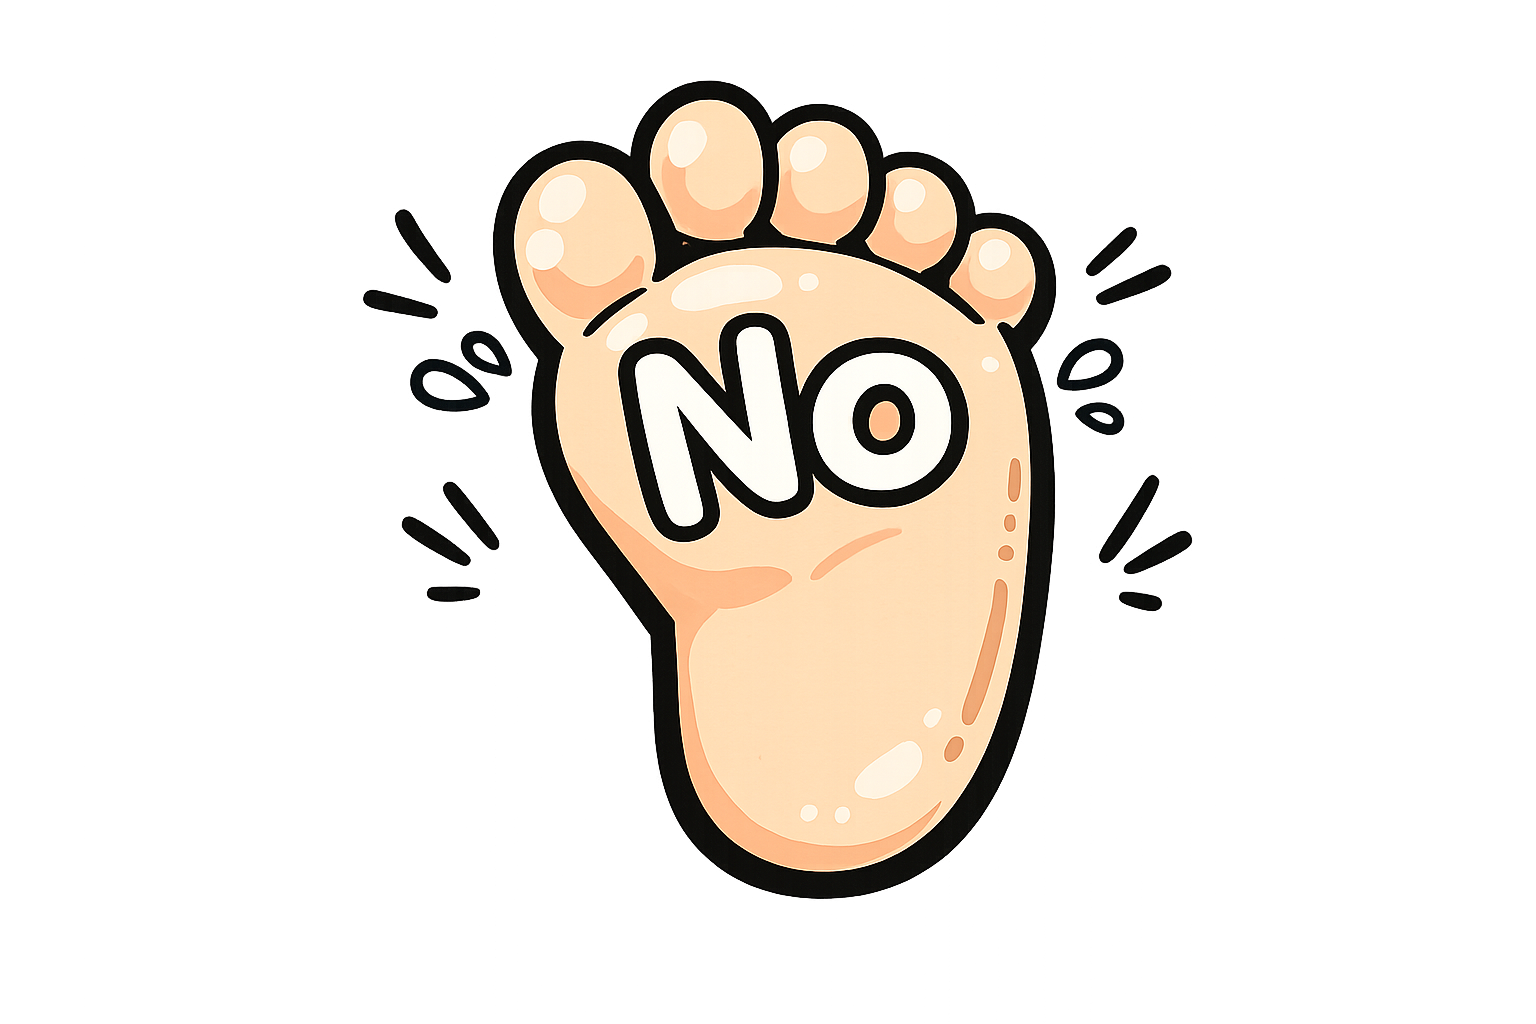
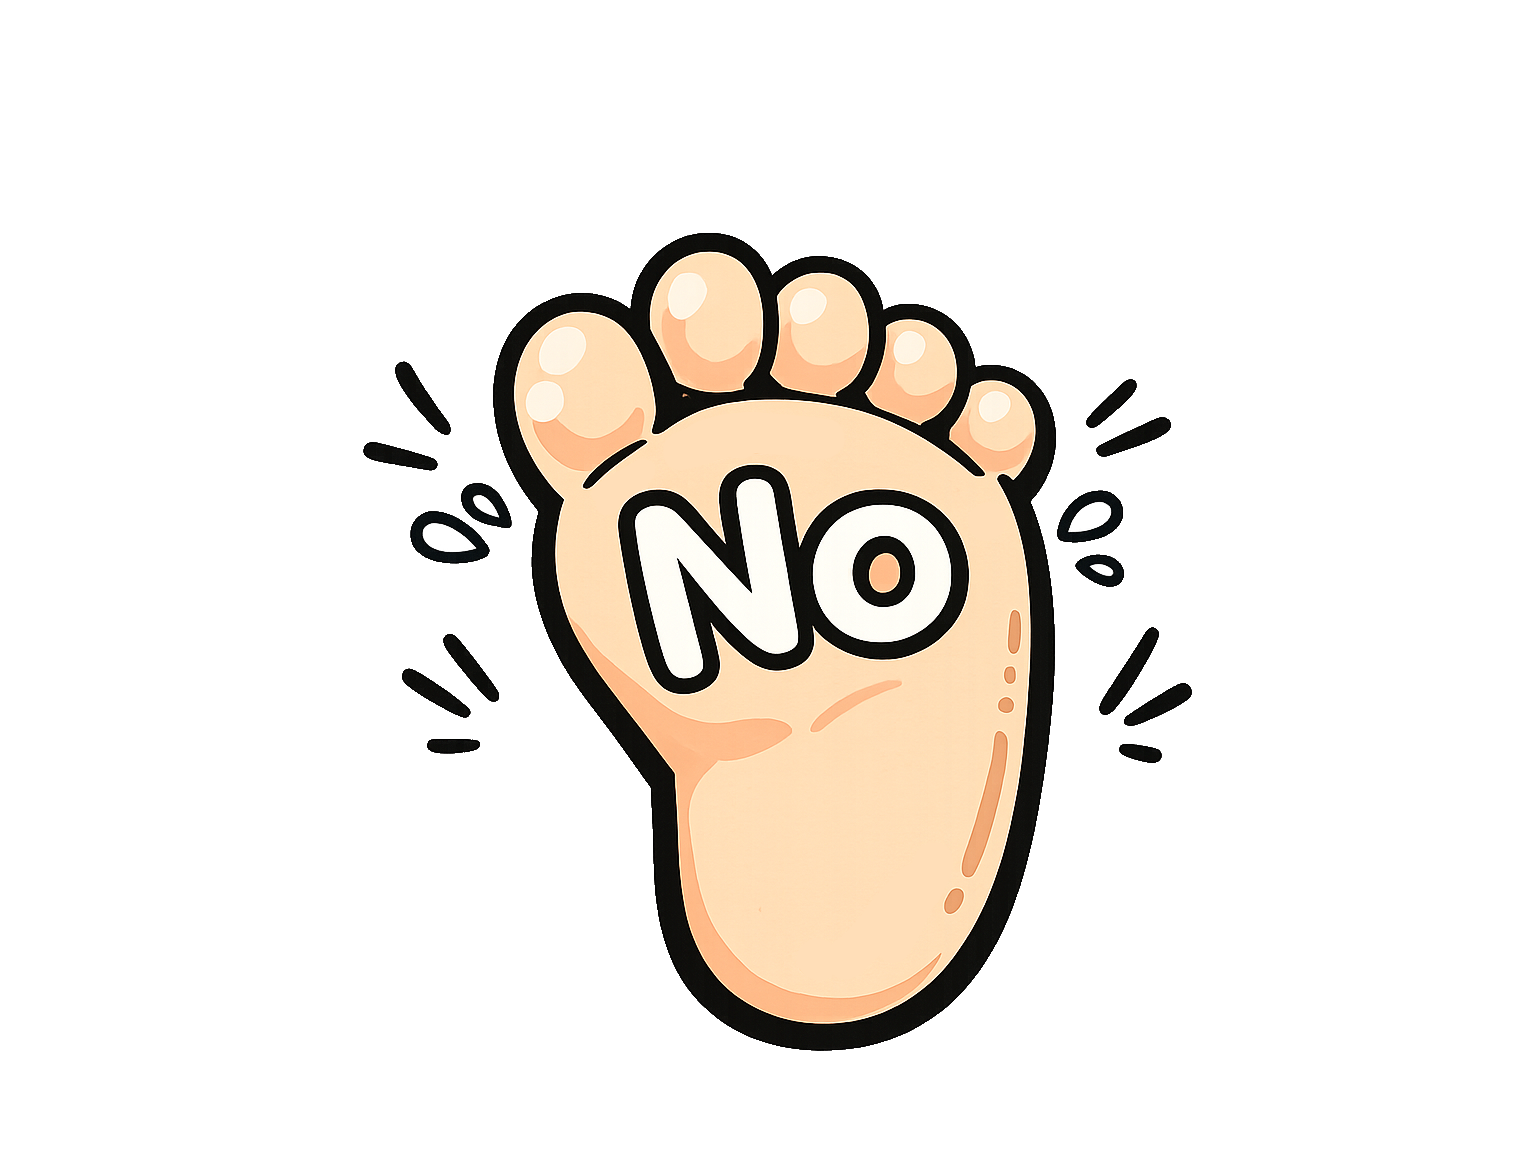
add images to all questions

Changed region(s): [[0.2188, 0.0625, 0.7812, 0.9062], [0.25, 0.1875, 0.2812, 0.25]]

diff --git a/index.html b/index.html
@@ -16,7 +16,8 @@
         <!-- Question 1 -->
         <div id="q1" class="question">
             <div class="img-container">
-                <img class="main-img" src="img/heart-eyes.png" alt="Jess with heart eyes">
+                <img class="main-img-anim img-anim-top" src="img/heart-eyes.png" alt="Jess with heart eyes">
+                <img class="main-img-anim img-anim-bottom" src="img/heart-eyes-2.png" alt="Jess with heart eyes 2">
             </div>
             <p class="header-text">Will you be my Valentine?</p>
             <div class="buttons">
@@ -26,14 +27,17 @@
                 </button>
                 <button class="no-button" onclick="moveToQuestion(1, 1)">
                     <img class="init-img" src="img/no-foot.png" alt=""/>
-                    <img class="hover-img"  src="img/no-stinky-foot.png" alt=""/>
+                    <img class="hover-img"  src="img/no-foot-hover.png" alt=""/>
                 </button>
             </div>
         </div>
 
         <!-- Question 2 (Yes branch from Q1) -->
         <div id="q2" class="question hidden">
-            <p class="header-text">Did you mean "yes" to buying a backpack?</p>
+            <div class="img-container">
+                <img class="main-img img-slide-up" src="img/capy-carl.png" alt="Capy Carl">
+            </div>
+            <p class="header-text">Did you mean ✨yes✨ to buying a backpack?</p>
             <div class="buttons">
                 <button class="yes-button" onclick="moveToQuestion(2, 3)">
                     <img class="init-img" src="img/yes-heart.png" alt=""/>
@@ -41,13 +45,16 @@
                 </button>
                 <button class="no-button" onclick="moveToQuestion(2, 4)">
                     <img class="init-img" src="img/no-foot.png" alt=""/>
-                    <img class="hover-img"  src="img/no-stinky-foot.png" alt=""/>
+                    <img class="hover-img"  src="img/no-foot-hover.png" alt=""/>
                 </button>
             </div>
         </div>
 
         <!-- Question 3 (Yes branch from Q2) -->
         <div id="q3" class="question hidden">
+            <div class="img-container">
+                <img class="main-img" src="img/capy-carl.png" alt="Capy Carl">
+            </div>
             <p class="header-text">Would you like to buy another?</p>
             <div class="buttons">
                 <button class="yes-button" onclick="moveToQuestion(3, 3)">
@@ -56,13 +63,17 @@
                 </button>
                 <button class="no-button" onclick="moveToQuestion(3, 4)">
                     <img class="init-img" src="img/no-foot.png" alt=""/>
-                    <img class="hover-img"  src="img/no-stinky-foot.png" alt=""/>
+                    <img class="hover-img"  src="img/no-foot-hover.png" alt=""/>
                 </button>
             </div>
         </div>
 
         <!-- Question 3 (Yes branch from Q2) -->
         <div id="q4" class="question hidden">
+            <div class="img-container">
+                <img class="main-img-anim img-anim-top" src="img/heart-eyes.png" alt="Jess with heart eyes">
+                <img class="main-img-anim img-anim-bottom" src="img/heart-eyes-2.png" alt="Jess with heart eyes 2">
+            </div>
             <p class="header-text">Will you please be my Valentine?</p>
             <div class="buttons">
                 <button class="yes-button" onclick="moveToFinalQuestion()">
@@ -71,14 +82,14 @@
                 </button>
                 <button class="no-button" onclick="moveToQuestion(4, 4)">
                     <img class="init-img" src="img/no-foot.png" alt=""/>
-                    <img class="hover-img"  src="img/no-stinky-foot.png" alt=""/>
+                    <img class="hover-img"  src="img/no-foot-hover.png" alt=""/>
                 </button>
             </div>
         </div>
 
         <div id="final-q" class="hidden">
-            <img class="main-img" src="img/love.png" alt="couple">
-            <p class="header-text">Yay!</p>
+            <img class="final-img" src="img/valentine-couple.png" alt="couple">
+            <p class="final-header-text">Yay!</p>
         </div>
     </div>
     <script src="script.js"></script>

diff --git a/styles.css b/styles.css
@@ -16,24 +16,64 @@ body {
   align-items: center;
   justify-content: center;
   display: flex;
+  height: 250px;
 }
 
 .main-img {
-  width: 350px;
-  height: auto;
+  width: auto;
+  height: 250px;
 }
-  
+
+.main-img-anim {
+  width: auto;
+  height: 250px;
+  position: absolute;
+  animation: fade 0.5s infinite alternate;
+}
+
+.img-anim-bottom {
+  animation-delay: 0.5s;
+}
+
+@keyframes fade {
+  0% { opacity: 1; }
+  50% { opacity: 1; }
+  100% { opacity: 0; }
+}
+
+.img-slide-up {
+  animation: fadeInUp 1s ease-out forwards;
+} 
+
+@keyframes fadeInUp {
+  0% {
+    /* Start 100% of its own height down and completely transparent */
+    transform: translateX(100%); 
+    opacity: 0;
+  }
+  50% {
+    /* Start 100% of its own height down and completely transparent */
+    transform: translateX(100%); 
+    opacity: 0;
+  }
+  100% {
+    /* End at its natural position and fully visible */
+    transform: translateY(0); 
+    opacity: 1;
+  }
+}
 
 .header-text {
   text-align: center;
-  margin-top: 5px;
+  margin-top: 15px;
+  margin-bottom: 15px;
 }
 
 .buttons {
   align-items: center;
   justify-content: center;
   display: flex;
-  gap: 40px;
+  gap: 20px;
 }
 
 .buttons button {
@@ -43,12 +83,12 @@ body {
 }
 
 .buttons button .init-img {
-  width: 175px;
+  width: 220px;
   height: auto;
 }
 
 .buttons button .hover-img {
-  width: 195px;
+  width: 220px;
   height: auto;
   display: none;
 }
@@ -61,4 +101,14 @@ body {
 .buttons button:hover .init-img,
 .buttons button:focus .init-img {
   display: none;
+}
+
+.final-img {
+  width: auto;
+  height: 300px;
+}
+
+.final-header-text {
+  text-align: center;
+  margin-top: -30px;
 }
